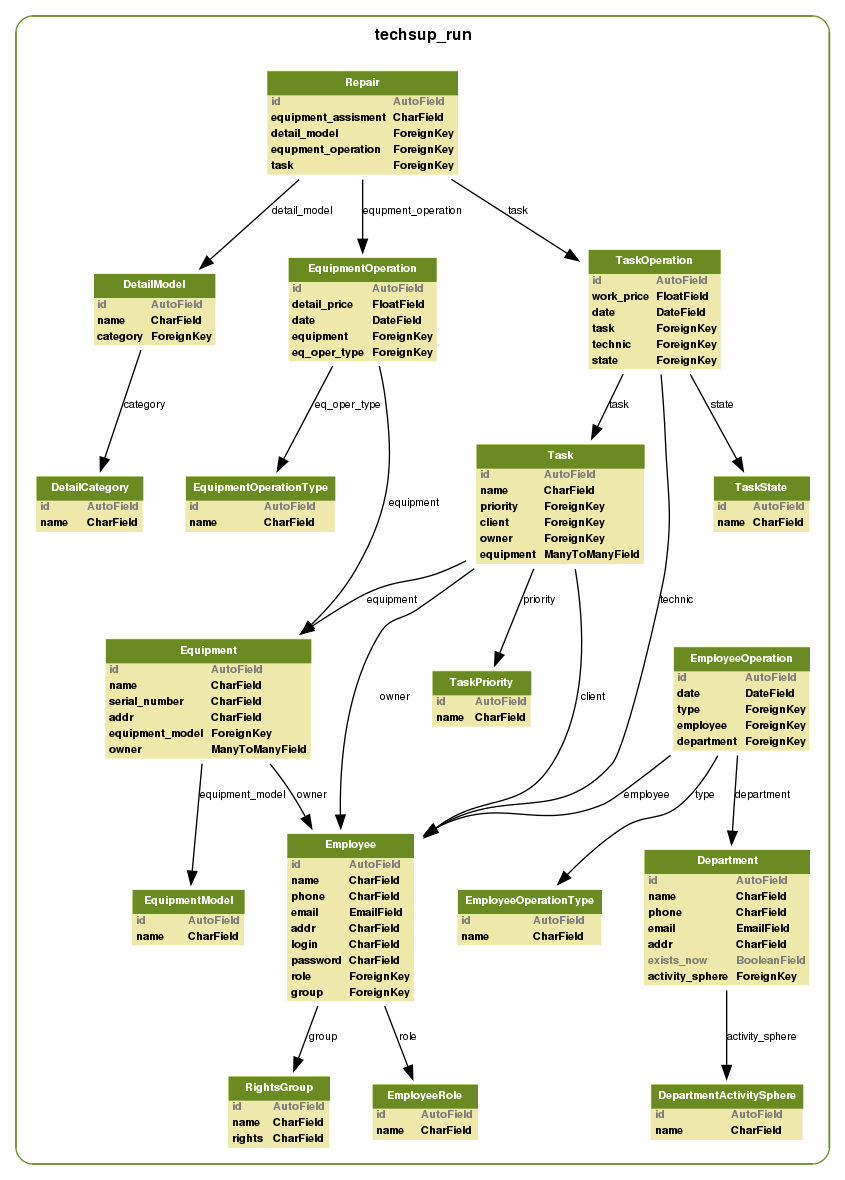
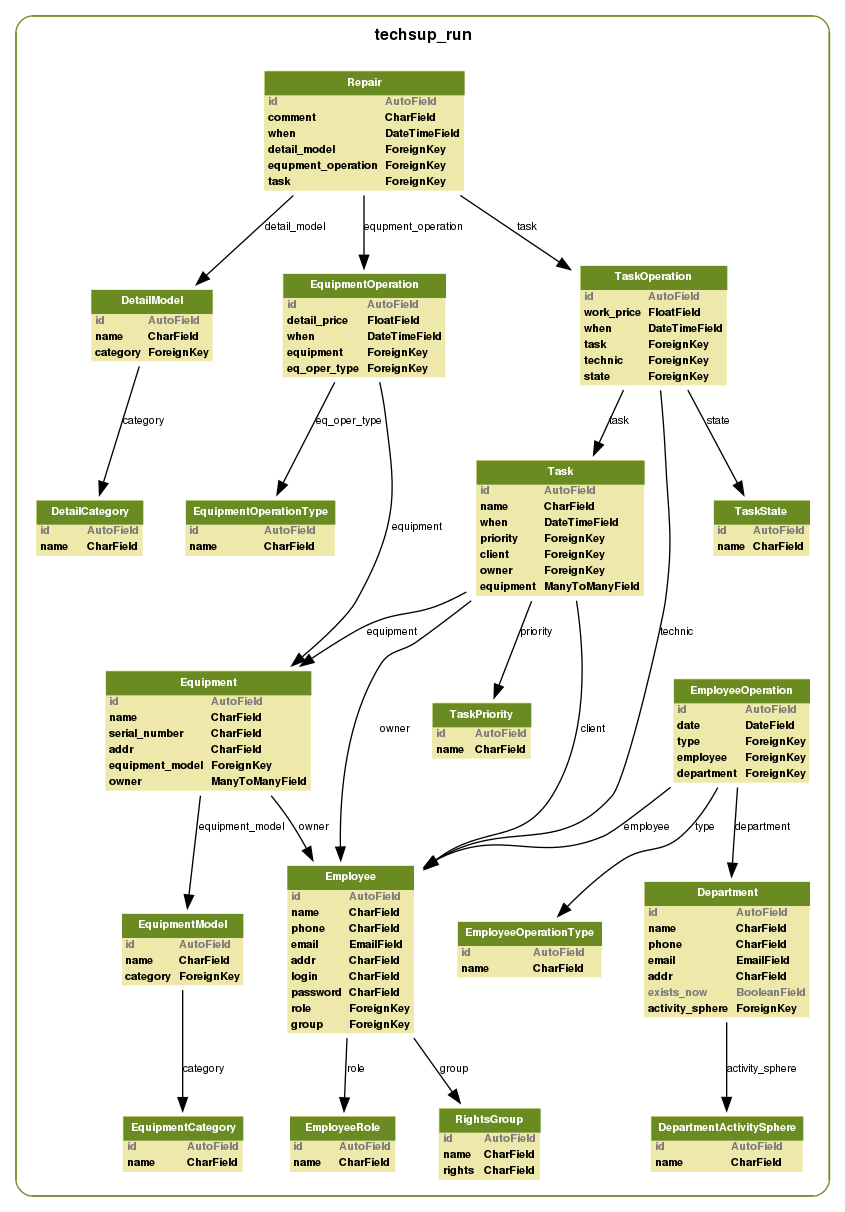
added : EquipmentCategory model

diff --git a/techsup_run/models/__init__.py b/techsup_run/models/__init__.py
@@ -7,7 +7,8 @@ import RightsGroup              #   |  --.         |    |                | f
 import Employee                 # <-'  <-'  --.    |    |                |
 import EmployeeOperationType    # --.         |    |    |                | f
 import EmployeeOperation        # <-'       <-'  <-'    |  --.           |
-import EquipmentModel           # --.                   |    |           |
+import EquipmentCategory        #      --.              |    |           |
+import EquipmentModel           # --.  <-'              |    |           |
 import Equipment                # <-'  --.              |    |           |
 import EquipmentOperationType   # --.    |              |    |           | f
 import EquipmentOperation       # <-'  <-'       --.    |    |           |
@@ -26,6 +27,7 @@ all_models = [Department.Department,
               EmployeeOperationType.EmployeeOperationType,
               EmployeeRole.EmployeeRole,
               Equipment.Equipment,
+              EquipmentCategory.EquipmentCategory,
               EquipmentModel.EquipmentModel,
               EquipmentOperation.EquipmentOperation,
               EquipmentOperationType.EquipmentOperationType,

diff --git a/techsup_lab/settings.py b/techsup_lab/settings.py
@@ -16,7 +16,7 @@ DATABASES = {
         'NAME': 'techsup',                    # Or path to database file if using sqlite3.
         'USER': 'techsup',                    # Not used with sqlite3.
         'PASSWORD': '123123',                 # Not used with sqlite3.
-        'HOST': 'amihailov.pro',              # Set to empty string for localhost. Not used with sqlite3.
+        'HOST': 'localhost',             # Set to empty string for localhost. Not used with sqlite3.
         'PORT': '',                      # Set to empty string for default. Not used with sqlite3.
     }
 }

diff --git a/techsup_run/management/commands/techsup_fill_primaries.py b/techsup_run/management/commands/techsup_fill_primaries.py
@@ -63,7 +63,8 @@ class EquipmentOperationTypeFill(BaseFill):
                      u'Списание',
                      u'Ремонт',
                      u'Замена детали',
-                     u'Перемещение на склад'
+                     u'Перемещение на склад',
+                     u'Помещение на ремонт'
                     ]
         
 class TaskPriorityFill(BaseFill):

diff --git a/techsup_run/models/EquipmentModel.py b/techsup_run/models/EquipmentModel.py
@@ -6,7 +6,8 @@ import settings as s
 
 # Модель оборудования
 class EquipmentModel(models.Model):
-    name  = models.CharField(max_length=s.EQ_MODEL_NAME_LENGTH)
+    name      = models.CharField(max_length=s.EQ_MODEL_NAME_LENGTH)
+    category  = models.ForeignKey('EquipmentCategory')
     
     class Meta:
         app_label = 'techsup_run'

diff --git a/techsup_run/models/EquipmentCategory.py b/techsup_run/models/EquipmentCategory.py
@@ -1,0 +1,14 @@
+# -*- coding: utf-8 -*-
+
+from django.db import models
+
+import settings as s
+
+# Категория узла
+class EquipmentCategory(models.Model):
+    name  = models.CharField(max_length=s.NODE_CATEGORY_NAME_LENGTH)
+    
+    class Meta:
+        app_label = 'techsup_run'
+        db_table  = 'equipment_category'
+    

diff --git a/techsup_run/models/DetailModel.py b/techsup_run/models/DetailModel.py
@@ -11,4 +11,4 @@ class DetailModel(models.Model):
     
     class Meta:
         app_label = 'techsup_run'
-        db_table = 'detail_model'
+        db_table  = 'detail_model'
